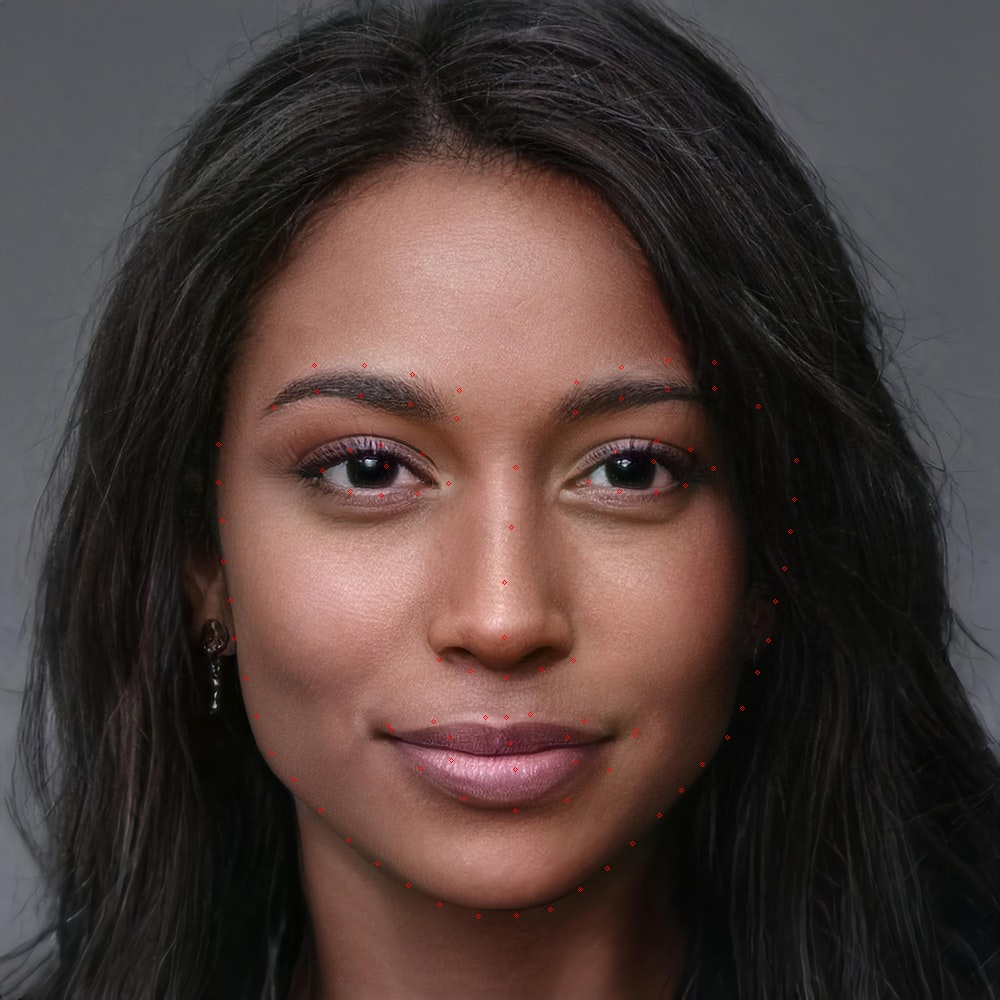
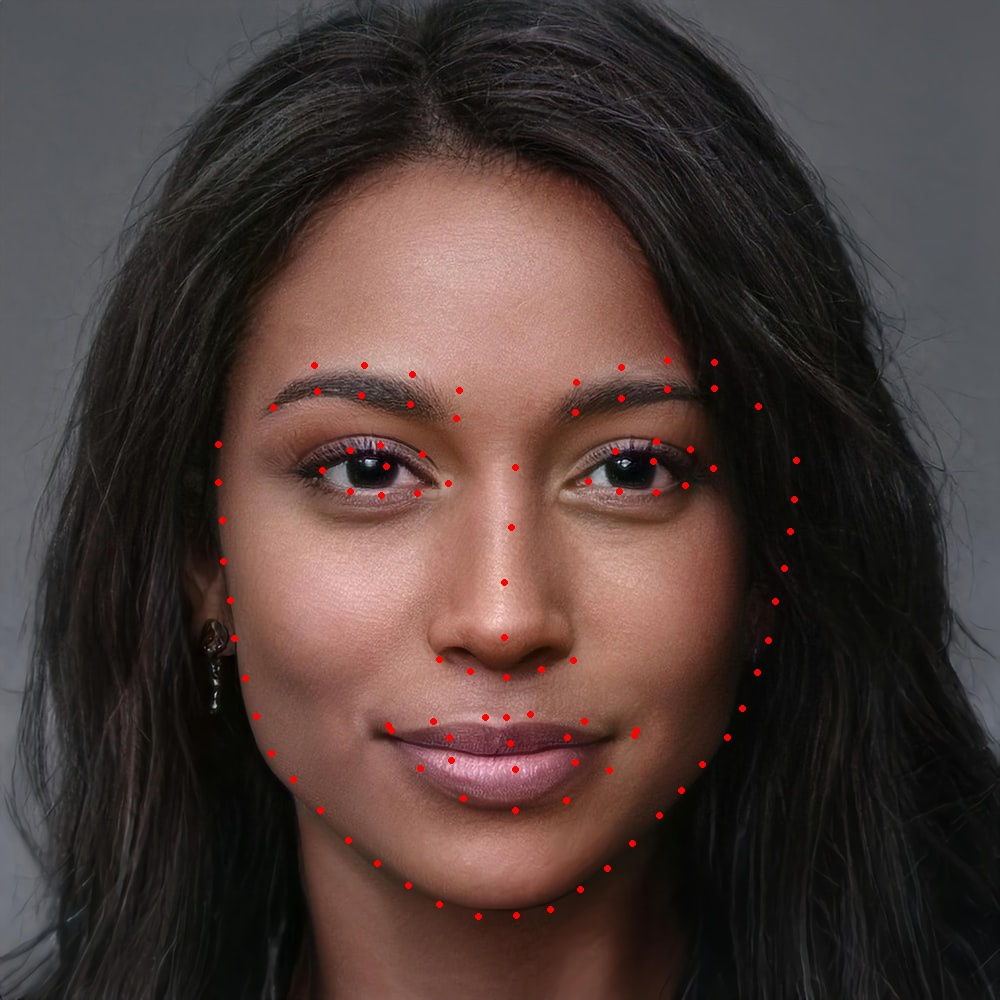
update

diff --git a/result.py b/result.py
@@ -67,7 +67,7 @@ def main(args):
         
 
         for (x, y) in pre_landmark.astype(np.int32):
-            cv2.circle(img, (x1 + x, y1 + y), 2, (0, 0, 255))
+            cv2.circle(img, (x1 + x, y1 + y), 2, (0, 0, 255), 2)
             
     cv2.imwrite("face_putput.jpeg", img)
     cv2.destroyAllWindows()
